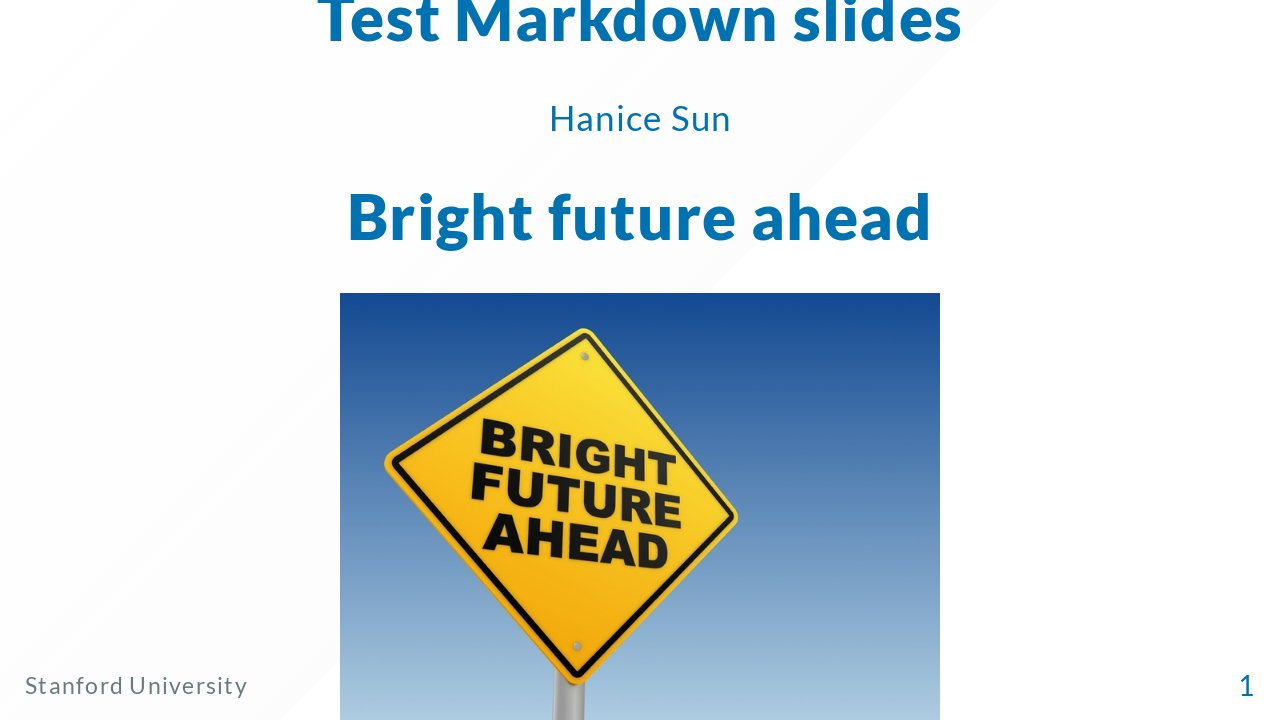
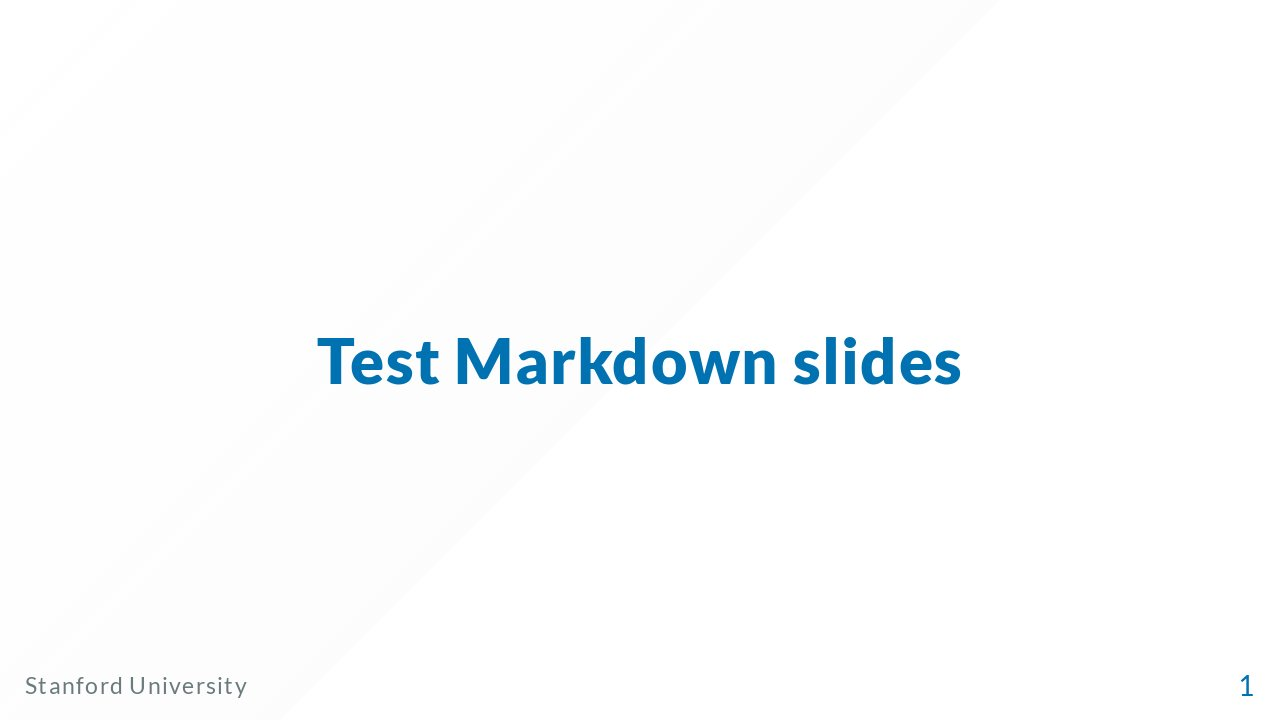
Deploying to gh-pages from  @ b85ae6c9900095e31c6d3830658e5cec559598a8 🚀

diff --git a/index.html b/index.html
@@ -8,8 +8,11 @@
  * @auto-scaling true
  * @size 16:9 1280px 720px
  * @size 4:3 960px 720px
- */div#p>svg>foreignObject>section .hljs{background:#000;color:#f8f8f8;display:block;overflow-x:auto;padding:.5em}div#p>svg>foreignObject>section .hljs-comment,div#p>svg>foreignObject>section .hljs-quote{color:#aeaeae;font-style:italic}div#p>svg>foreignObject>section .hljs-keyword,div#p>svg>foreignObject>section .hljs-selector-tag,div#p>svg>foreignObject>section .hljs-type{color:#e28964}div#p>svg>foreignObject>section .hljs-string{color:#65b042}div#p>svg>foreignObject>section .hljs-subst{color:#daefa3}div#p>svg>foreignObject>section .hljs-link,div#p>svg>foreignObject>section .hljs-regexp{color:#e9c062}div#p>svg>foreignObject>section .hljs-name,div#p>svg>foreignObject>section .hljs-section,div#p>svg>foreignObject>section .hljs-tag,div#p>svg>foreignObject>section .hljs-title{color:#89bdff}div#p>svg>foreignObject>section .hljs-class .hljs-title,div#p>svg>foreignObject>section .hljs-doctag{text-decoration:underline}div#p>svg>foreignObject>section .hljs-bullet,div#p>svg>foreignObject>section .hljs-number,div#p>svg>foreignObject>section .hljs-symbol{color:#3387cc}div#p>svg>foreignObject>section .hljs-params,div#p>svg>foreignObject>section .hljs-template-variable,div#p>svg>foreignObject>section .hljs-variable{color:#3e87e3}div#p>svg>foreignObject>section .hljs-attribute{color:#cda869}div#p>svg>foreignObject>section .hljs-meta{color:#8996a8}div#p>svg>foreignObject>section .hljs-formula{background-color:#0e2231;color:#f8f8f8;font-style:italic}div#p>svg>foreignObject>section .hljs-addition{background-color:#253b22;color:#f8f8f8}div#p>svg>foreignObject>section .hljs-deletion{background-color:#420e09;color:#f8f8f8}div#p>svg>foreignObject>section .hljs-selector-class{color:#9b703f}div#p>svg>foreignObject>section .hljs-selector-id{color:#8b98ab}div#p>svg>foreignObject>section .hljs-emphasis{font-style:italic}div#p>svg>foreignObject>section .hljs-strong{font-weight:700}div#p>svg>foreignObject>section svg[data-marp-fitting=svg]{max-height:580px}div#p>svg>foreignObject>section h1,div#p>svg>foreignObject>section h2,div#p>svg>foreignObject>section h3,div#p>svg>foreignObject>section h4,div#p>svg>foreignObject>section h5,div#p>svg>foreignObject>section h6{margin:.5em 0 0}div#p>svg>foreignObject>section h1 strong,div#p>svg>foreignObject>section h2 strong,div#p>svg>foreignObject>section h3 strong,div#p>svg>foreignObject>section h4 strong,div#p>svg>foreignObject>section h5 strong,div#p>svg>foreignObject>section h6 strong{font-weight:inherit}div#p>svg>foreignObject>section h1{font-size:1.8em}div#p>svg>foreignObject>section h2{font-size:1.5em}div#p>svg>foreignObject>section h3{font-size:1.3em}div#p>svg>foreignObject>section h4{font-size:1.1em}div#p>svg>foreignObject>section h5{font-size:1em}div#p>svg>foreignObject>section h6{font-size:.9em}div#p>svg>foreignObject>section blockquote,div#p>svg>foreignObject>section p{margin:1em 0 0}div#p>svg>foreignObject>section ol>li,div#p>svg>foreignObject>section ul>li{margin:.3em 0 0}div#p>svg>foreignObject>section ol>li>p,div#p>svg>foreignObject>section ul>li>p{margin:.6em 0 0}div#p>svg>foreignObject>section code{display:inline-block;font-family:Roboto Mono,monospace;font-size:.8em;letter-spacing:0;margin:-.1em .15em;padding:.1em .2em;vertical-align:baseline}div#p>svg>foreignObject>section pre{display:block;margin:1em 0 0;min-height:1em;overflow:visible}div#p>svg>foreignObject>section pre code{box-sizing:border-box;font-size:.7em;margin:0;min-width:100%;padding:.5em}div#p>svg>foreignObject>section pre code svg[data-marp-fitting=svg]{max-height:calc(580px - 1em)}div#p>svg>foreignObject>section blockquote{margin:1em 0 0;padding:0 1em;position:relative}div#p>svg>foreignObject>section blockquote:after,div#p>svg>foreignObject>section blockquote:before{content:"“";display:block;font-family:Times New Roman,serif;font-weight:700;position:absolute}div#p>svg>foreignObject>section blockquote:before{left:0;top:0}div#p>svg>foreignObject>section blockquote:after{bottom:0;right:0;transform:rotate(180deg)}div#p>svg>foreignObject>section blockquote>:first-child{margin-top:0}div#p>svg>foreignObject>section mark{background:transparent}div#p>svg>foreignObject>section table{border-collapse:collapse;border-spacing:0;margin:1em 0 0}div#p>svg>foreignObject>section table td,div#p>svg>foreignObject>section table th{border-style:solid;border-width:1px;padding:.2em .4em}div#p>svg>foreignObject>section footer,div#p>svg>foreignObject>section header,div#p>svg>foreignObject>section:after{box-sizing:border-box;font-size:66%;height:70px;line-height:50px;overflow:hidden;padding:10px 25px;position:absolute}div#p>svg>foreignObject>section:after{--marpit-root-font-size:66%}div#p>svg>foreignObject>section header{top:0}div#p>svg>foreignObject>section footer,div#p>svg>foreignObject>section header{left:0;right:0}div#p>svg>foreignObject>section footer{bottom:0}div#p>svg>foreignObject>section{word-wrap:break-word;--color-background:#fff8e1;--color-background-stripe:rgba(69,90,100,.1);--color-foreground:#455a64;--color-dimmed:#6a7a7d;--color-highlight:#0288d1;background-color:var(--color-background);background-image:linear-gradient(135deg,hsla(0,0%,53%,0),hsla(0,0%,53%,.02) 50%,hsla(0,0%,100%,0) 0,hsla(0,0%,100%,.05));color:var(--color-foreground);font-family:Lato,Avenir Next,Avenir,Trebuchet MS,Segoe UI,sans-serif;font-size:35px;height:720px;letter-spacing:1.25px;line-height:1.35;padding:70px;width:1280px}div#p>svg>foreignObject>section{--marpit-root-font-size:35px}div#p>svg>foreignObject>section:after{bottom:0;font-size:80%;right:0}div#p>svg>foreignObject>section:after{--marpit-root-font-size:80%}div#p>svg>foreignObject>section a,div#p>svg>foreignObject>section mark{color:var(--color-highlight)}div#p>svg>foreignObject>section code{background:var(--color-dimmed);color:var(--color-background)}div#p>svg>foreignObject>section h1 strong,div#p>svg>foreignObject>section h2 strong,div#p>svg>foreignObject>section h3 strong,div#p>svg>foreignObject>section h4 strong,div#p>svg>foreignObject>section h5 strong,div#p>svg>foreignObject>section h6 strong{color:var(--color-highlight)}div#p>svg>foreignObject>section pre>code{background:var(--color-foreground)}div#p>svg>foreignObject>section blockquote:after,div#p>svg>foreignObject>section blockquote:before,div#p>svg>foreignObject>section footer,div#p>svg>foreignObject>section header,div#p>svg>foreignObject>section section:after{color:var(--color-dimmed)}div#p>svg>foreignObject>section table td,div#p>svg>foreignObject>section table th{border-color:var(--color-foreground)}div#p>svg>foreignObject>section table thead th{background:var(--color-foreground);color:var(--color-background)}div#p>svg>foreignObject>section table tbody>tr:nth-child(odd) td,div#p>svg>foreignObject>section table tbody>tr:nth-child(odd) th{background:var(--color-background-stripe,transparent)}div#p>svg>foreignObject>section>:first-child,div#p>svg>foreignObject>section>header:first-child+*{margin-top:0}div#p>svg>foreignObject>section.invert{--color-background:#455a64;--color-background-stripe:rgba(255,248,225,.1);--color-foreground:#fff8e1;--color-dimmed:#dad8c8;--color-highlight:#81d4fa}div#p>svg>foreignObject>section.gaia{--color-background:#0288d1;--color-background-stripe:rgba(255,248,225,.1);--color-foreground:#fff8e1;--color-dimmed:#cce2de;--color-highlight:#81d4fa}div#p>svg>foreignObject>section.lead{display:flex;flex-flow:column nowrap;justify-content:center}div#p>svg>foreignObject>section.lead h1,div#p>svg>foreignObject>section.lead h2,div#p>svg>foreignObject>section.lead h3,div#p>svg>foreignObject>section.lead h4,div#p>svg>foreignObject>section.lead h5,div#p>svg>foreignObject>section.lead h6{text-align:center}div#p>svg>foreignObject>section.lead h1 svg[data-marp-fitting=svg],div#p>svg>foreignObject>section.lead h2 svg[data-marp-fitting=svg],div#p>svg>foreignObject>section.lead h3 svg[data-marp-fitting=svg],div#p>svg>foreignObject>section.lead h4 svg[data-marp-fitting=svg],div#p>svg>foreignObject>section.lead h5 svg[data-marp-fitting=svg],div#p>svg>foreignObject>section.lead h6 svg[data-marp-fitting=svg]{--preserve-aspect-ratio:xMidYMid meet}div#p>svg>foreignObject>section.lead p{text-align:center}div#p>svg>foreignObject>section.lead blockquote>h1,div#p>svg>foreignObject>section.lead blockquote>h2,div#p>svg>foreignObject>section.lead blockquote>h3,div#p>svg>foreignObject>section.lead blockquote>h4,div#p>svg>foreignObject>section.lead blockquote>h5,div#p>svg>foreignObject>section.lead blockquote>h6,div#p>svg>foreignObject>section.lead blockquote>p{text-align:left}div#p>svg>foreignObject>section.lead blockquote svg[data-marp-fitting=svg]:not([data-marp-fitting-math]){--preserve-aspect-ratio:xMinYMin meet}div#p>svg>foreignObject>section.lead ol>li>p,div#p>svg>foreignObject>section.lead ul>li>p{text-align:left}div#p>svg>foreignObject>section.lead table{margin-left:auto;margin-right:auto}div#p>svg>foreignObject>section{width:1280px;height:720px}div#p>svg>foreignObject>section:not(a){!--color-foreground:#101010;--color-foreground:#0072b1;--color-background:#FFFFFF}div#p>svg>foreignObject>section img[alt~=center]{display:block;margin:0 auto}div#p>svg>foreignObject>section img[alt~=right]{display:block;margin-left:auto}div#p>svg>foreignObject>section[data-marpit-advanced-background=background]{columns:initial!important;display:block!important;padding:0!important}div#p>svg>foreignObject>section[data-marpit-advanced-background=background]:after,div#p>svg>foreignObject>section[data-marpit-advanced-background=background]:before,div#p>svg>foreignObject>section[data-marpit-advanced-background=content]:after,div#p>svg>foreignObject>section[data-marpit-advanced-background=content]:before{display:none!important}div#p>svg>foreignObject>section[data-marpit-advanced-background=background]>div[data-marpit-advanced-background-container]{all:initial;display:flex;flex-direction:row;height:100%;overflow:hidden;width:100%}div#p>svg>foreignObject>section[data-marpit-advanced-background=background]>div[data-marpit-advanced-background-container][data-marpit-advanced-background-direction=vertical]{flex-direction:column}div#p>svg>foreignObject>section[data-marpit-advanced-background=background][data-marpit-advanced-background-split]>div[data-marpit-advanced-background-container]{width:var(--marpit-advanced-background-split,50%)}div#p>svg>foreignObject>section[data-marpit-advanced-background=background][data-marpit-advanced-background-split=right]>div[data-marpit-advanced-background-container]{margin-left:calc(100% - var(--marpit-advanced-background-split, 50%))}div#p>svg>foreignObject>section[data-marpit-advanced-background=background]>div[data-marpit-advanced-background-container]>figure{all:initial;background-position:center;background-repeat:no-repeat;background-size:cover;flex:auto;margin:0}div#p>svg>foreignObject>section[data-marpit-advanced-background=content],div#p>svg>foreignObject>section[data-marpit-advanced-background=pseudo]{background:transparent!important}div#p>svg>foreignObject>section[data-marpit-advanced-background=pseudo],div#p>svg[data-marpit-svg]>foreignObject[data-marpit-advanced-background=pseudo]{pointer-events:none!important}div#p>svg>foreignObject>section[data-marpit-advanced-background-split]{width:100%;height:100%}</style></head><body><div class="bespoke-marp-osc"><button data-bespoke-marp-osc="prev" tabindex="-1" title="Previous slide">Previous slide</button><span data-bespoke-marp-osc="page"></span><button data-bespoke-marp-osc="next" tabindex="-1" title="Next slide">Next slide</button><button data-bespoke-marp-osc="fullscreen" tabindex="-1" title="Toggle fullscreen (f)">Toggle fullscreen</button><button data-bespoke-marp-osc="presenter" tabindex="-1" title="Open presenter view (p)">Open presenter view</button></div><div id="p"><svg data-marpit-svg="" viewBox="0 0 1280 720"><foreignObject width="1280" height="720"><section id="1" data-paginate="true" data-footer="Stanford University" data-class="lead" data-theme="gaia" class="lead" data-marpit-pagination="1" data-marpit-pagination-total="1" style="--paginate:true;--footer:Stanford University;--class:lead;--theme:gaia;" data-size="16:9">
+ */div#p>svg>foreignObject>section .hljs{background:#000;color:#f8f8f8;display:block;overflow-x:auto;padding:.5em}div#p>svg>foreignObject>section .hljs-comment,div#p>svg>foreignObject>section .hljs-quote{color:#aeaeae;font-style:italic}div#p>svg>foreignObject>section .hljs-keyword,div#p>svg>foreignObject>section .hljs-selector-tag,div#p>svg>foreignObject>section .hljs-type{color:#e28964}div#p>svg>foreignObject>section .hljs-string{color:#65b042}div#p>svg>foreignObject>section .hljs-subst{color:#daefa3}div#p>svg>foreignObject>section .hljs-link,div#p>svg>foreignObject>section .hljs-regexp{color:#e9c062}div#p>svg>foreignObject>section .hljs-name,div#p>svg>foreignObject>section .hljs-section,div#p>svg>foreignObject>section .hljs-tag,div#p>svg>foreignObject>section .hljs-title{color:#89bdff}div#p>svg>foreignObject>section .hljs-class .hljs-title,div#p>svg>foreignObject>section .hljs-doctag{text-decoration:underline}div#p>svg>foreignObject>section .hljs-bullet,div#p>svg>foreignObject>section .hljs-number,div#p>svg>foreignObject>section .hljs-symbol{color:#3387cc}div#p>svg>foreignObject>section .hljs-params,div#p>svg>foreignObject>section .hljs-template-variable,div#p>svg>foreignObject>section .hljs-variable{color:#3e87e3}div#p>svg>foreignObject>section .hljs-attribute{color:#cda869}div#p>svg>foreignObject>section .hljs-meta{color:#8996a8}div#p>svg>foreignObject>section .hljs-formula{background-color:#0e2231;color:#f8f8f8;font-style:italic}div#p>svg>foreignObject>section .hljs-addition{background-color:#253b22;color:#f8f8f8}div#p>svg>foreignObject>section .hljs-deletion{background-color:#420e09;color:#f8f8f8}div#p>svg>foreignObject>section .hljs-selector-class{color:#9b703f}div#p>svg>foreignObject>section .hljs-selector-id{color:#8b98ab}div#p>svg>foreignObject>section .hljs-emphasis{font-style:italic}div#p>svg>foreignObject>section .hljs-strong{font-weight:700}div#p>svg>foreignObject>section svg[data-marp-fitting=svg]{max-height:580px}div#p>svg>foreignObject>section h1,div#p>svg>foreignObject>section h2,div#p>svg>foreignObject>section h3,div#p>svg>foreignObject>section h4,div#p>svg>foreignObject>section h5,div#p>svg>foreignObject>section h6{margin:.5em 0 0}div#p>svg>foreignObject>section h1 strong,div#p>svg>foreignObject>section h2 strong,div#p>svg>foreignObject>section h3 strong,div#p>svg>foreignObject>section h4 strong,div#p>svg>foreignObject>section h5 strong,div#p>svg>foreignObject>section h6 strong{font-weight:inherit}div#p>svg>foreignObject>section h1{font-size:1.8em}div#p>svg>foreignObject>section h2{font-size:1.5em}div#p>svg>foreignObject>section h3{font-size:1.3em}div#p>svg>foreignObject>section h4{font-size:1.1em}div#p>svg>foreignObject>section h5{font-size:1em}div#p>svg>foreignObject>section h6{font-size:.9em}div#p>svg>foreignObject>section blockquote,div#p>svg>foreignObject>section p{margin:1em 0 0}div#p>svg>foreignObject>section ol>li,div#p>svg>foreignObject>section ul>li{margin:.3em 0 0}div#p>svg>foreignObject>section ol>li>p,div#p>svg>foreignObject>section ul>li>p{margin:.6em 0 0}div#p>svg>foreignObject>section code{display:inline-block;font-family:Roboto Mono,monospace;font-size:.8em;letter-spacing:0;margin:-.1em .15em;padding:.1em .2em;vertical-align:baseline}div#p>svg>foreignObject>section pre{display:block;margin:1em 0 0;min-height:1em;overflow:visible}div#p>svg>foreignObject>section pre code{box-sizing:border-box;font-size:.7em;margin:0;min-width:100%;padding:.5em}div#p>svg>foreignObject>section pre code svg[data-marp-fitting=svg]{max-height:calc(580px - 1em)}div#p>svg>foreignObject>section blockquote{margin:1em 0 0;padding:0 1em;position:relative}div#p>svg>foreignObject>section blockquote:after,div#p>svg>foreignObject>section blockquote:before{content:"“";display:block;font-family:Times New Roman,serif;font-weight:700;position:absolute}div#p>svg>foreignObject>section blockquote:before{left:0;top:0}div#p>svg>foreignObject>section blockquote:after{bottom:0;right:0;transform:rotate(180deg)}div#p>svg>foreignObject>section blockquote>:first-child{margin-top:0}div#p>svg>foreignObject>section mark{background:transparent}div#p>svg>foreignObject>section table{border-collapse:collapse;border-spacing:0;margin:1em 0 0}div#p>svg>foreignObject>section table td,div#p>svg>foreignObject>section table th{border-style:solid;border-width:1px;padding:.2em .4em}div#p>svg>foreignObject>section footer,div#p>svg>foreignObject>section header,div#p>svg>foreignObject>section:after{box-sizing:border-box;font-size:66%;height:70px;line-height:50px;overflow:hidden;padding:10px 25px;position:absolute}div#p>svg>foreignObject>section:after{--marpit-root-font-size:66%}div#p>svg>foreignObject>section header{top:0}div#p>svg>foreignObject>section footer,div#p>svg>foreignObject>section header{left:0;right:0}div#p>svg>foreignObject>section footer{bottom:0}div#p>svg>foreignObject>section{word-wrap:break-word;--color-background:#fff8e1;--color-background-stripe:rgba(69,90,100,.1);--color-foreground:#455a64;--color-dimmed:#6a7a7d;--color-highlight:#0288d1;background-color:var(--color-background);background-image:linear-gradient(135deg,hsla(0,0%,53%,0),hsla(0,0%,53%,.02) 50%,hsla(0,0%,100%,0) 0,hsla(0,0%,100%,.05));color:var(--color-foreground);font-family:Lato,Avenir Next,Avenir,Trebuchet MS,Segoe UI,sans-serif;font-size:35px;height:720px;letter-spacing:1.25px;line-height:1.35;padding:70px;width:1280px}div#p>svg>foreignObject>section{--marpit-root-font-size:35px}div#p>svg>foreignObject>section:after{bottom:0;font-size:80%;right:0}div#p>svg>foreignObject>section:after{--marpit-root-font-size:80%}div#p>svg>foreignObject>section a,div#p>svg>foreignObject>section mark{color:var(--color-highlight)}div#p>svg>foreignObject>section code{background:var(--color-dimmed);color:var(--color-background)}div#p>svg>foreignObject>section h1 strong,div#p>svg>foreignObject>section h2 strong,div#p>svg>foreignObject>section h3 strong,div#p>svg>foreignObject>section h4 strong,div#p>svg>foreignObject>section h5 strong,div#p>svg>foreignObject>section h6 strong{color:var(--color-highlight)}div#p>svg>foreignObject>section pre>code{background:var(--color-foreground)}div#p>svg>foreignObject>section blockquote:after,div#p>svg>foreignObject>section blockquote:before,div#p>svg>foreignObject>section footer,div#p>svg>foreignObject>section header,div#p>svg>foreignObject>section section:after{color:var(--color-dimmed)}div#p>svg>foreignObject>section table td,div#p>svg>foreignObject>section table th{border-color:var(--color-foreground)}div#p>svg>foreignObject>section table thead th{background:var(--color-foreground);color:var(--color-background)}div#p>svg>foreignObject>section table tbody>tr:nth-child(odd) td,div#p>svg>foreignObject>section table tbody>tr:nth-child(odd) th{background:var(--color-background-stripe,transparent)}div#p>svg>foreignObject>section>:first-child,div#p>svg>foreignObject>section>header:first-child+*{margin-top:0}div#p>svg>foreignObject>section.invert{--color-background:#455a64;--color-background-stripe:rgba(255,248,225,.1);--color-foreground:#fff8e1;--color-dimmed:#dad8c8;--color-highlight:#81d4fa}div#p>svg>foreignObject>section.gaia{--color-background:#0288d1;--color-background-stripe:rgba(255,248,225,.1);--color-foreground:#fff8e1;--color-dimmed:#cce2de;--color-highlight:#81d4fa}div#p>svg>foreignObject>section.lead{display:flex;flex-flow:column nowrap;justify-content:center}div#p>svg>foreignObject>section.lead h1,div#p>svg>foreignObject>section.lead h2,div#p>svg>foreignObject>section.lead h3,div#p>svg>foreignObject>section.lead h4,div#p>svg>foreignObject>section.lead h5,div#p>svg>foreignObject>section.lead h6{text-align:center}div#p>svg>foreignObject>section.lead h1 svg[data-marp-fitting=svg],div#p>svg>foreignObject>section.lead h2 svg[data-marp-fitting=svg],div#p>svg>foreignObject>section.lead h3 svg[data-marp-fitting=svg],div#p>svg>foreignObject>section.lead h4 svg[data-marp-fitting=svg],div#p>svg>foreignObject>section.lead h5 svg[data-marp-fitting=svg],div#p>svg>foreignObject>section.lead h6 svg[data-marp-fitting=svg]{--preserve-aspect-ratio:xMidYMid meet}div#p>svg>foreignObject>section.lead p{text-align:center}div#p>svg>foreignObject>section.lead blockquote>h1,div#p>svg>foreignObject>section.lead blockquote>h2,div#p>svg>foreignObject>section.lead blockquote>h3,div#p>svg>foreignObject>section.lead blockquote>h4,div#p>svg>foreignObject>section.lead blockquote>h5,div#p>svg>foreignObject>section.lead blockquote>h6,div#p>svg>foreignObject>section.lead blockquote>p{text-align:left}div#p>svg>foreignObject>section.lead blockquote svg[data-marp-fitting=svg]:not([data-marp-fitting-math]){--preserve-aspect-ratio:xMinYMin meet}div#p>svg>foreignObject>section.lead ol>li>p,div#p>svg>foreignObject>section.lead ul>li>p{text-align:left}div#p>svg>foreignObject>section.lead table{margin-left:auto;margin-right:auto}div#p>svg>foreignObject>section{width:1280px;height:720px}div#p>svg>foreignObject>section:not(a){!--color-foreground:#101010;--color-foreground:#0072b1;--color-background:#FFFFFF}div#p>svg>foreignObject>section img[alt~=center]{display:block;margin:0 auto}div#p>svg>foreignObject>section img[alt~=right]{display:block;margin-left:auto}div#p>svg>foreignObject>section[data-marpit-advanced-background=background]{columns:initial!important;display:block!important;padding:0!important}div#p>svg>foreignObject>section[data-marpit-advanced-background=background]:after,div#p>svg>foreignObject>section[data-marpit-advanced-background=background]:before,div#p>svg>foreignObject>section[data-marpit-advanced-background=content]:after,div#p>svg>foreignObject>section[data-marpit-advanced-background=content]:before{display:none!important}div#p>svg>foreignObject>section[data-marpit-advanced-background=background]>div[data-marpit-advanced-background-container]{all:initial;display:flex;flex-direction:row;height:100%;overflow:hidden;width:100%}div#p>svg>foreignObject>section[data-marpit-advanced-background=background]>div[data-marpit-advanced-background-container][data-marpit-advanced-background-direction=vertical]{flex-direction:column}div#p>svg>foreignObject>section[data-marpit-advanced-background=background][data-marpit-advanced-background-split]>div[data-marpit-advanced-background-container]{width:var(--marpit-advanced-background-split,50%)}div#p>svg>foreignObject>section[data-marpit-advanced-background=background][data-marpit-advanced-background-split=right]>div[data-marpit-advanced-background-container]{margin-left:calc(100% - var(--marpit-advanced-background-split, 50%))}div#p>svg>foreignObject>section[data-marpit-advanced-background=background]>div[data-marpit-advanced-background-container]>figure{all:initial;background-position:center;background-repeat:no-repeat;background-size:cover;flex:auto;margin:0}div#p>svg>foreignObject>section[data-marpit-advanced-background=content],div#p>svg>foreignObject>section[data-marpit-advanced-background=pseudo]{background:transparent!important}div#p>svg>foreignObject>section[data-marpit-advanced-background=pseudo],div#p>svg[data-marpit-svg]>foreignObject[data-marpit-advanced-background=pseudo]{pointer-events:none!important}div#p>svg>foreignObject>section[data-marpit-advanced-background-split]{width:100%;height:100%}</style></head><body><div class="bespoke-marp-osc"><button data-bespoke-marp-osc="prev" tabindex="-1" title="Previous slide">Previous slide</button><span data-bespoke-marp-osc="page"></span><button data-bespoke-marp-osc="next" tabindex="-1" title="Next slide">Next slide</button><button data-bespoke-marp-osc="fullscreen" tabindex="-1" title="Toggle fullscreen (f)">Toggle fullscreen</button><button data-bespoke-marp-osc="presenter" tabindex="-1" title="Open presenter view (p)">Open presenter view</button></div><div id="p"><svg data-marpit-svg="" viewBox="0 0 1280 720"><foreignObject width="1280" height="720"><section id="1" data-paginate="true" data-footer="Stanford University" data-class="lead" data-theme="gaia" class="lead" data-marpit-pagination="1" data-marpit-pagination-total="2" style="--paginate:true;--footer:Stanford University;--class:lead;--theme:gaia;" data-size="16:9">
 <h1>Test Markdown slides</h1>
+<footer>Stanford University</footer>
+</section>
+</foreignObject></svg><svg data-marpit-svg="" viewBox="0 0 1280 720"><foreignObject width="1280" height="720"><section id="2" data-paginate="true" data-footer="Stanford University" data-theme="gaia" data-marpit-pagination="2" data-marpit-pagination-total="2" style="--paginate:true;--footer:Stanford University;--theme:gaia;" data-size="16:9">
 <p>Hanice Sun</p>
 <h1>Bright future ahead</h1>
 <p><img src="https://images.squarespace-cdn.com/content/v1/533dfe99e4b0d84a3bd774a4/1449599571797-M16D2JL5RKSXC99IQ8DL/image-asset.jpeg?format=750w" alt="center" style="width:600px;" /></p>
